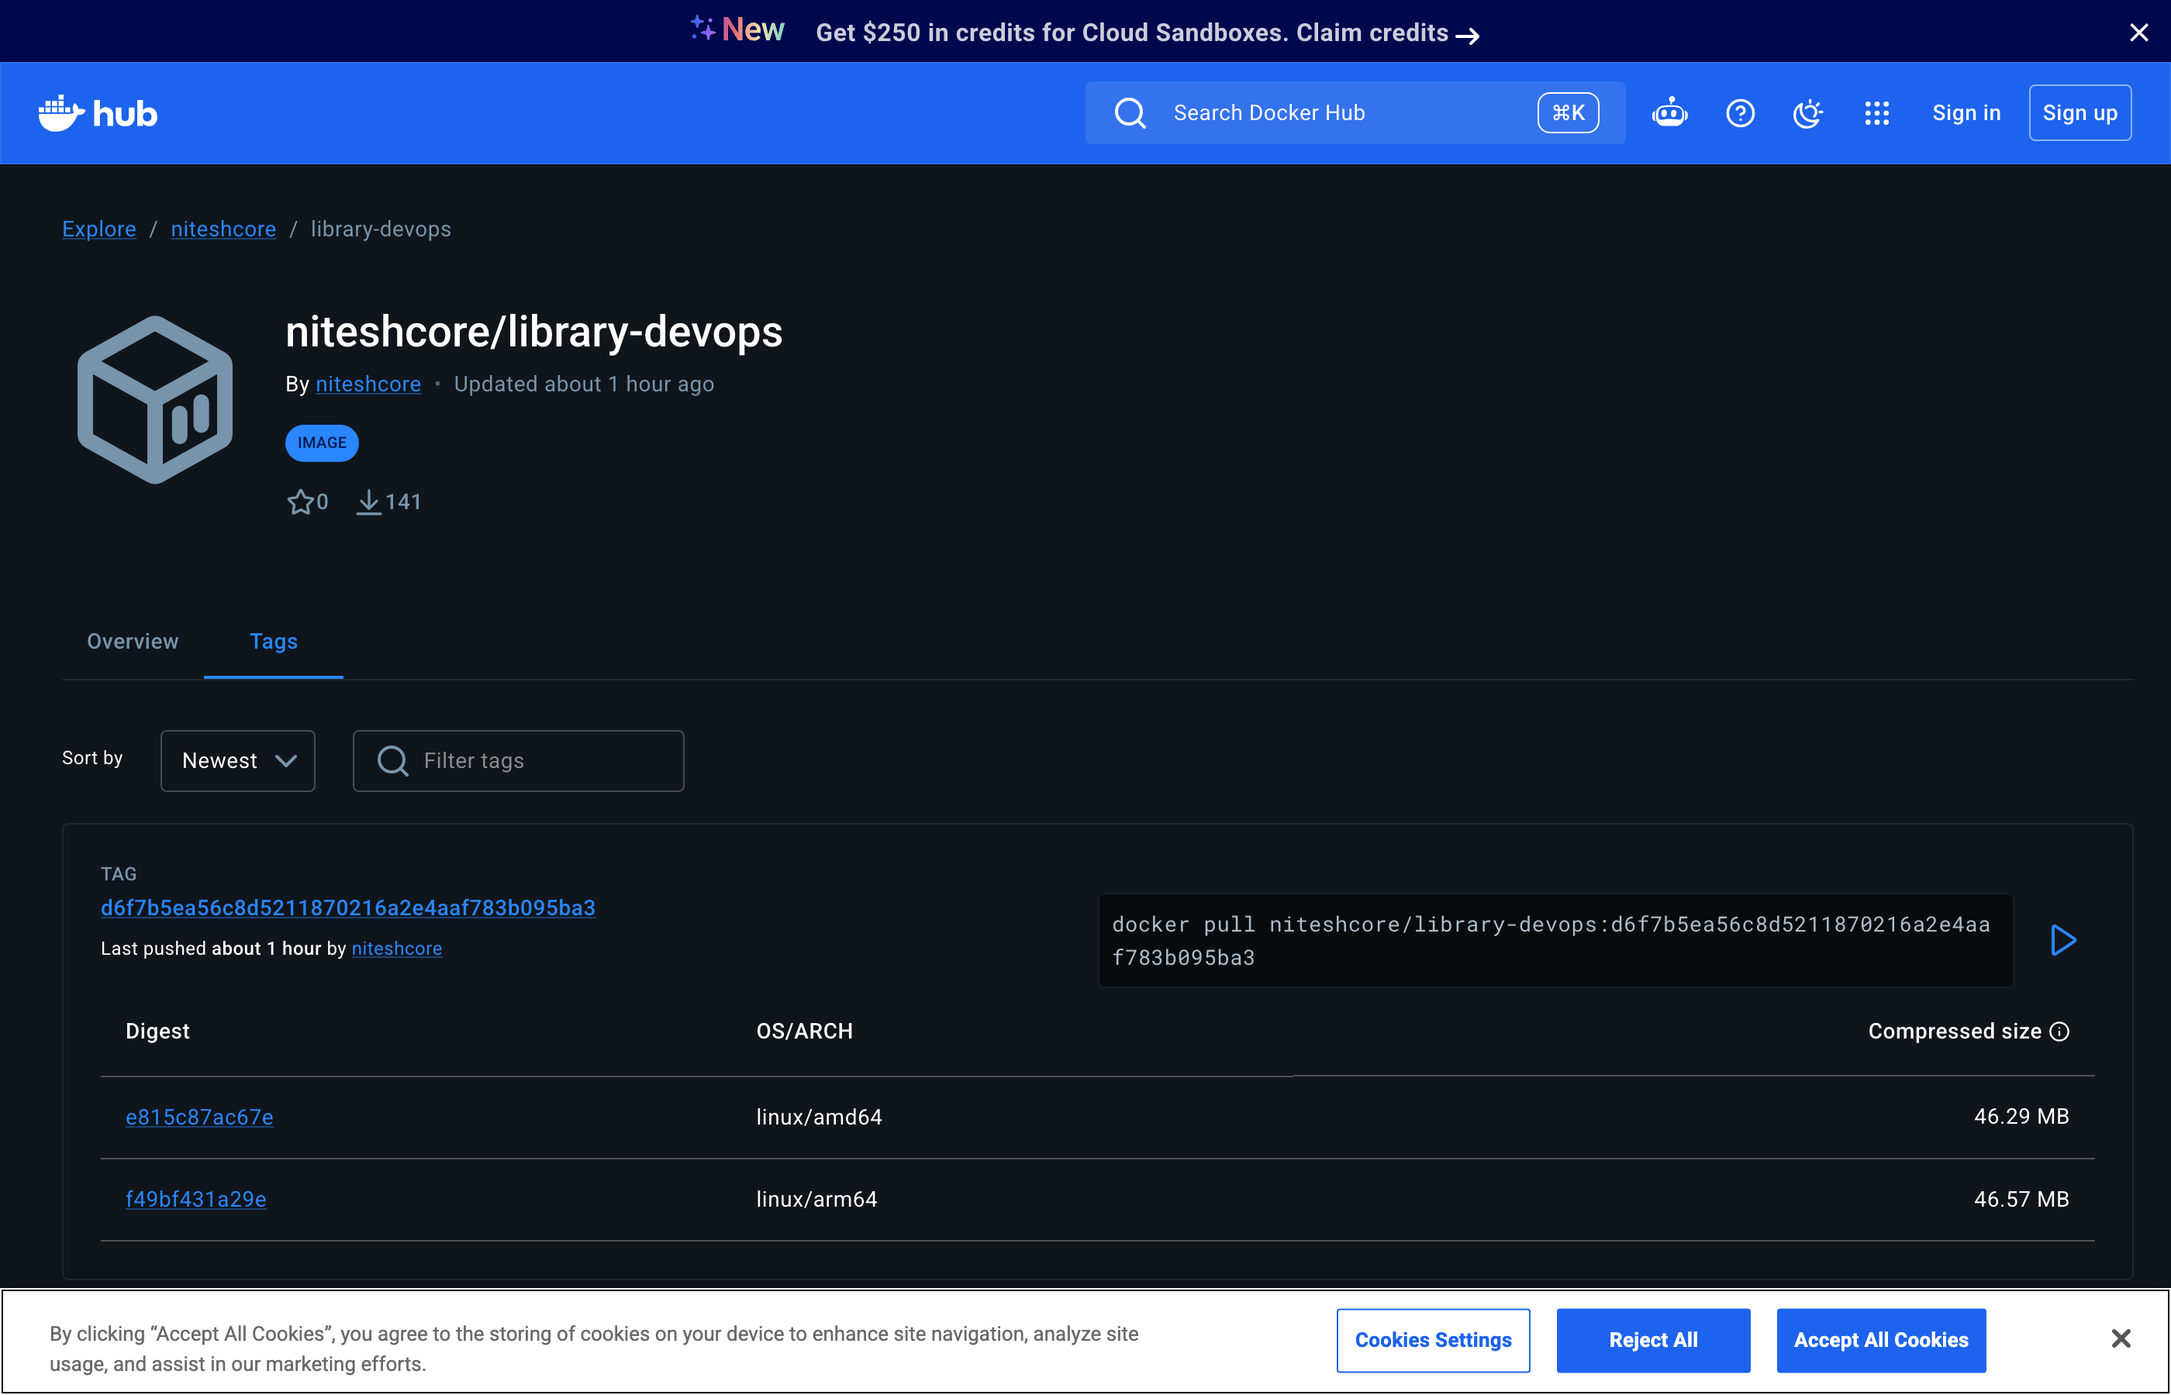
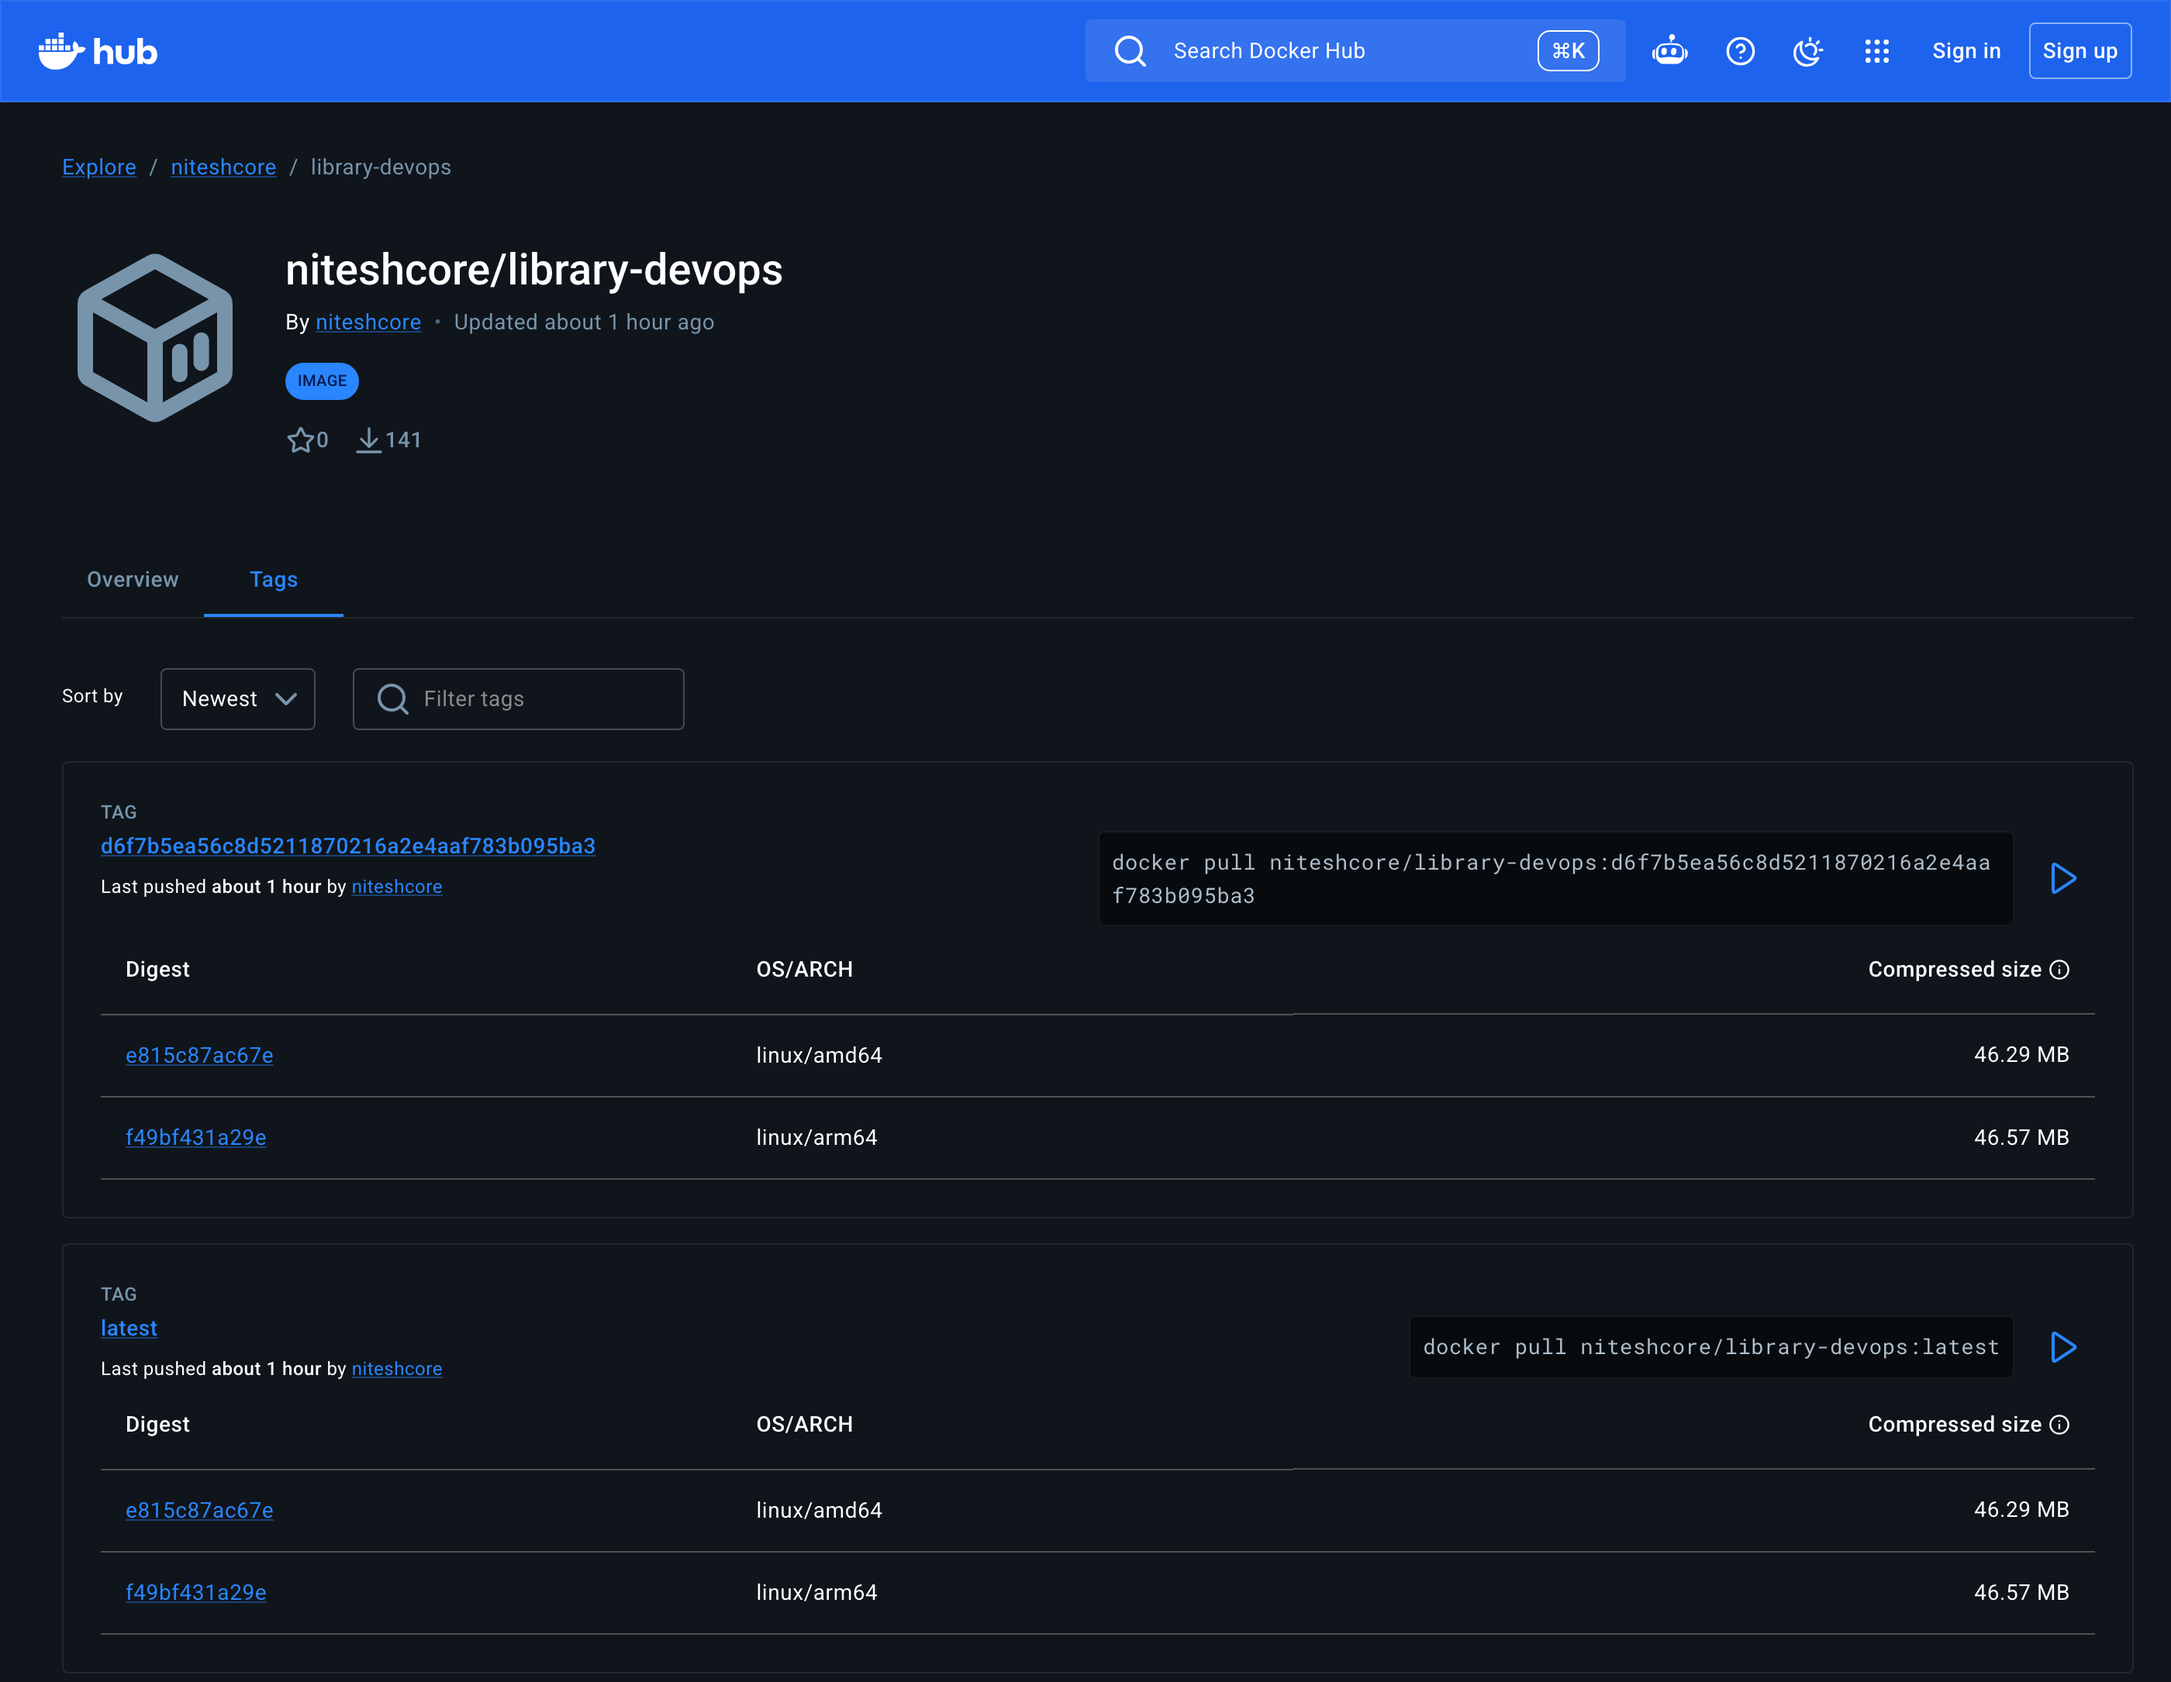
docs: add screenshots to README

diff --git a/README.md b/README.md
@@ -194,17 +194,29 @@ Credentials are never stored in the code. They are saved in GitHub under **Setti
 
 ## Screenshots
 
-> **Screenshot:** Home page with the book list and status badges (`docs/screenshots/home.png`)
+**Home page:** all books with their availability status and the Issue / Return / Delete buttons
 
-> **Screenshot:** Add Book form (`docs/screenshots/add-book.png`)
+![Home page](docs/screenshots/home.png)
 
-> **Screenshot:** `pytest -v` output with all 18 tests passing (`docs/screenshots/tests.png`)
+**Add Book form**
 
-> **Screenshot:** `docker compose ps` showing the container as healthy (`docs/screenshots/docker-healthy.png`)
+![Add Book form](docs/screenshots/add-book.png)
 
-> **Screenshot:** GitHub Actions run with all three jobs green (`docs/screenshots/pipeline-green.png`)
+**Unit tests:** all 18 pytest tests passing
 
-> **Screenshot:** Docker Hub repository with the `latest` and commit SHA tags (`docs/screenshots/docker-hub.png`)
+![pytest output](docs/screenshots/tests.png)
+
+**Docker:** the container is running and Docker reports it as healthy
+
+![docker compose ps](docs/screenshots/docker-healthy.png)
+
+**GitHub Actions:** test → build-and-push → deploy, all green
+
+![Pipeline run](docs/screenshots/pipeline-green.png)
+
+**Docker Hub:** the pipeline pushed the image with the `latest` and commit SHA tags, for both amd64 and arm64
+
+![Docker Hub tags](docs/screenshots/docker-hub.png)
 
 ---
 
